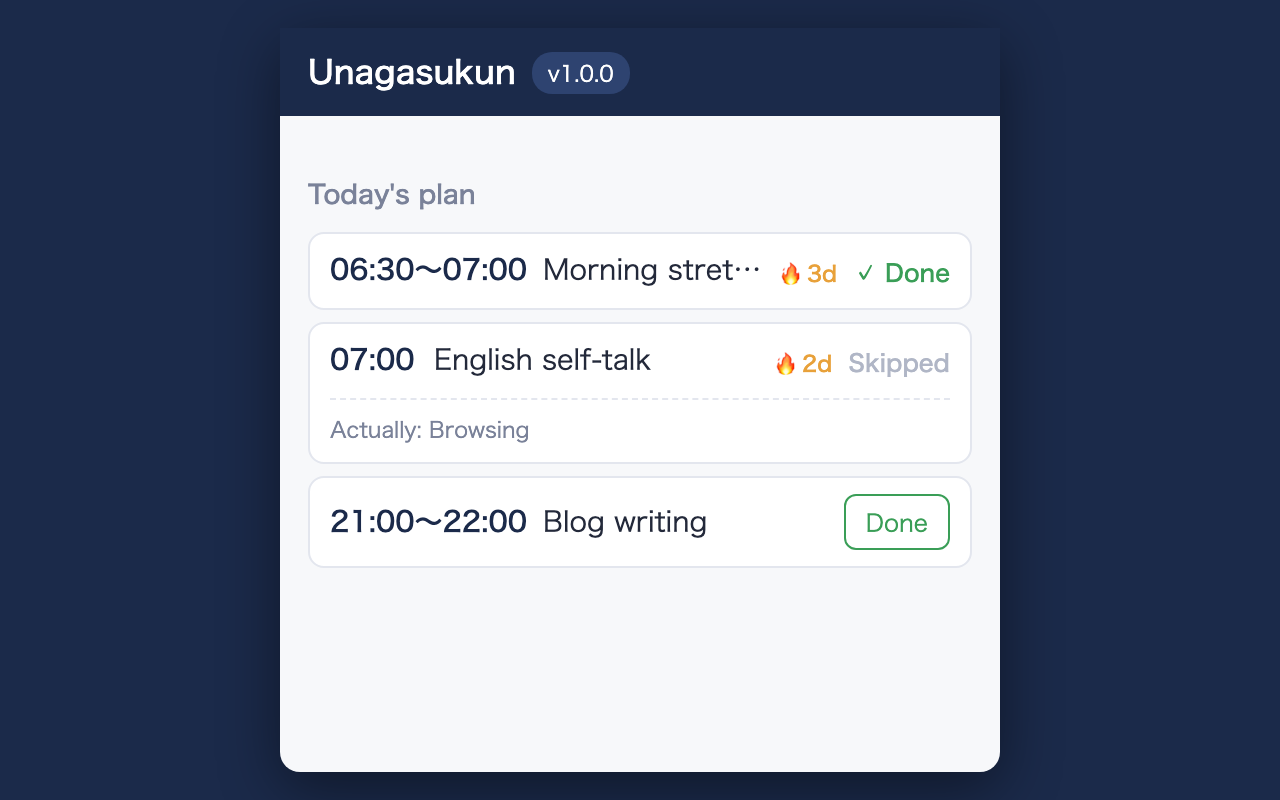
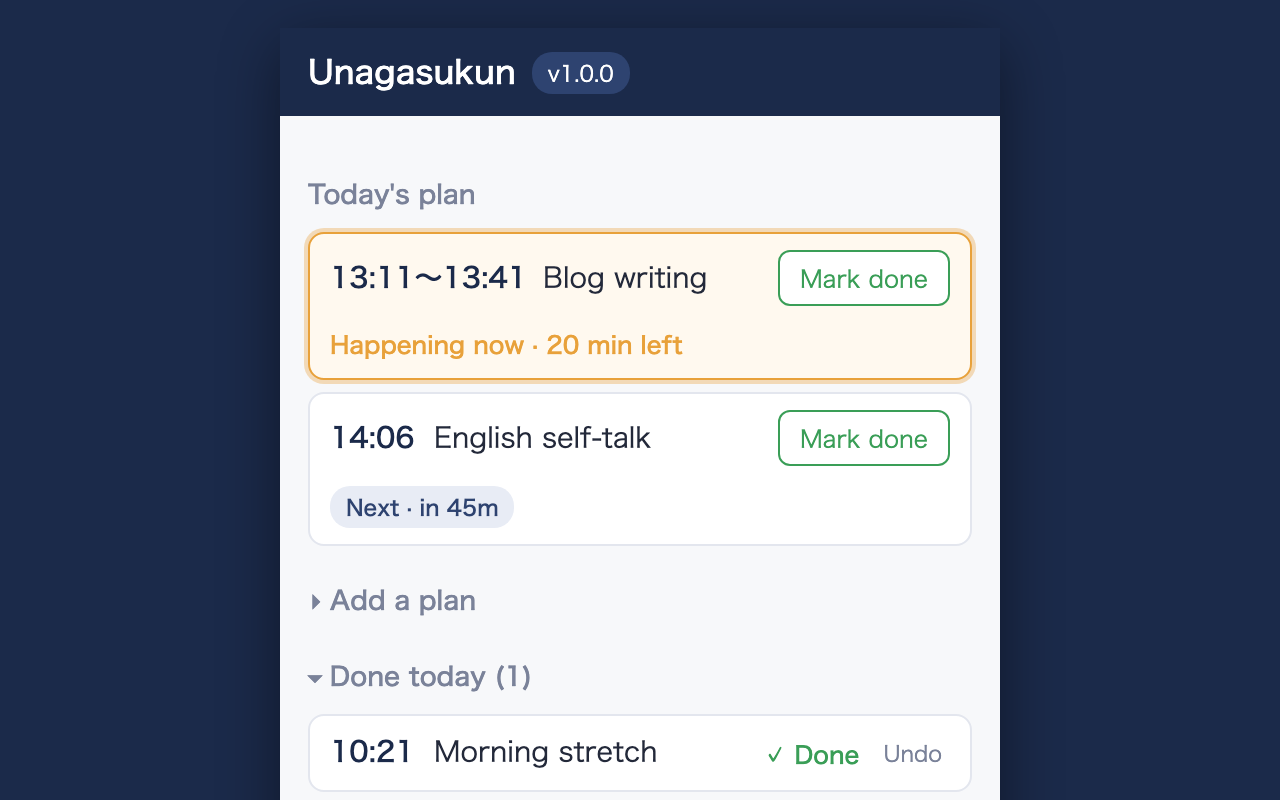
申請前のUX仕上げ：初回はフォームを自動で開く、対応済みの取り消し、通知オフ警告。スクショと掲載文を最新UIに更新

diff --git a/extension/sidepanel.js b/extension/sidepanel.js
@@ -491,16 +491,26 @@ function renderToday() {
       subBadges.push(badge);
     }
 
-    if (result === 'done') {
+    if (result === 'done' || result === 'skip') {
       const s = document.createElement('span');
-      s.className = 'status done';
-      s.textContent = T('statusDone');
+      s.className = result === 'done' ? 'status done' : 'status skip';
+      s.textContent = result === 'done' ? T('statusDone') : T('statusSkip');
       card.append(s);
-    } else if (result === 'skip') {
-      const s = document.createElement('span');
-      s.className = 'status skip';
-      s.textContent = T('statusSkip');
-      card.append(s);
+      // 誤タップの救済：記録を取り消して今日の予定に戻せる
+      const undo = document.createElement('button');
+      undo.className = 'undo-btn';
+      undo.textContent = T('undoBtn');
+      undo.title = T('undoTip');
+      undo.addEventListener('click', async () => {
+        const key = todayKey();
+        if (records[key]) {
+          delete records[key][item.id];
+          if (Object.keys(records[key]).length === 0) delete records[key];
+        }
+        await saveRecords();
+        renderToday();
+      });
+      card.append(undo);
     } else {
       if (!isActive && item.time <= nowHM) card.classList.add('now');
       // 時間が過ぎて未対応なら、枠色だけでなく文字でも分かるようにする
@@ -841,6 +851,14 @@ document.getElementById('done-title').addEventListener('click', () => {
   bindInputHint(['input-date'], 'date-hint');
   resetForm();
   await load();
+  // 予定がまだ1つも無い（初回起動など）ときは、最初の一歩が見えるようフォームを開いておく
+  if (schedule.length === 0) setFormOpen(true);
+  // 通知がオフだとこの拡張は仕事ができないので、その状態を隠さず見せる
+  if (typeof chrome !== 'undefined' && chrome.notifications && chrome.notifications.getPermissionLevel) {
+    chrome.notifications.getPermissionLevel((level) => {
+      document.getElementById('notif-warning').hidden = level === 'granted';
+    });
+  }
   renderAll();
   // 通知ボタンからの実績記録を画面に反映する
   if (hasChromeStorage) {

diff --git a/extension/sidepanel.css b/extension/sidepanel.css
@@ -60,6 +60,23 @@ h1 {
 
 .header-btn:hover { background: var(--navy-light); }
 
+.warn {
+  background: #fdf1dd;
+  color: #8a5a0a;
+  font-size: 12px;
+  padding: 8px 14px;
+}
+
+.undo-btn {
+  border: none;
+  background: none;
+  color: var(--muted);
+  font-size: 11px;
+  padding: 2px 4px;
+}
+
+.undo-btn:hover { background: none; text-decoration: underline; }
+
 .toast {
   position: fixed;
   left: 50%;

diff --git a/extension/sidepanel.html b/extension/sidepanel.html
@@ -15,6 +15,7 @@
     <button id="btn-dock" class="header-btn" data-i18n-title="btnDockTip" hidden>⇥</button>
   </header>
   <div id="toast" class="toast" hidden></div>
+  <div id="notif-warning" class="warn" data-i18n="notifDisabledWarning" hidden>Chromeの通知がオフになっています。時間になっても通知が出ない状態です。</div>
 
   <main>
     <section id="today-section">
